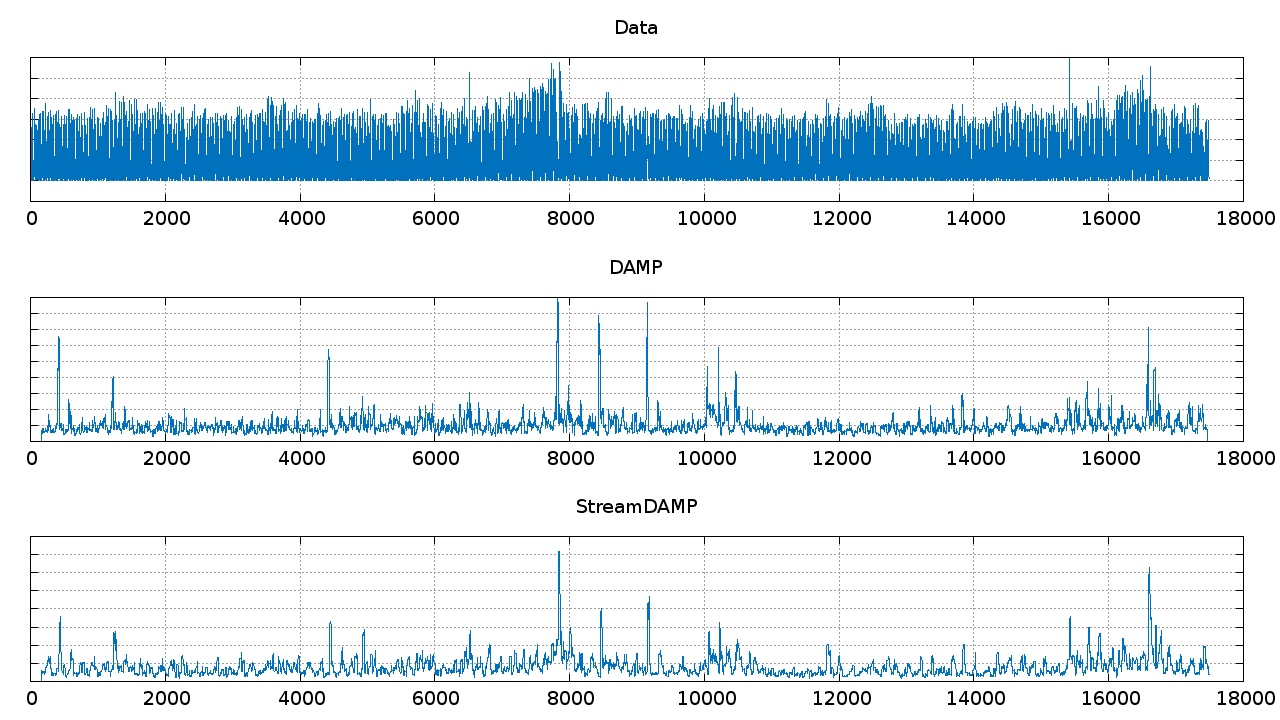
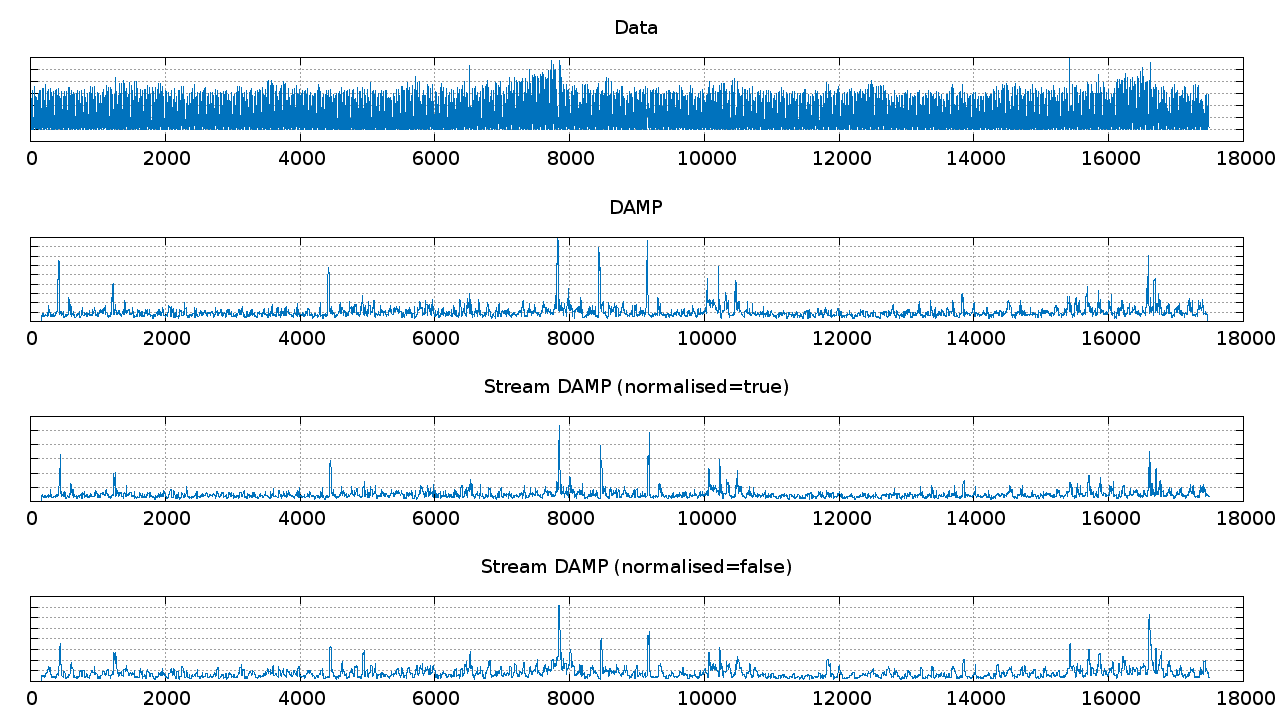
Updates plotted samples

diff --git a/experiments/generate_samples.go b/experiments/generate_samples.go
@@ -36,15 +36,15 @@ type testSample struct {
 }
 
 var plotSamples = []testSample{
-	{"damp/samples/1-bourkestreetmall.in", 17490, 24, 24 * 7},
-	{"damp/samples/2-machining.in", 44056, 16, 44056 / 9},
+	{"damp/samples/1-bourkestreetmall", 17490, 24, 24 * 7},
+	{"damp/samples/2-machining", 44056, 16, 44056 / 9},
 }
 
 func main() {
 	for _, s := range plotSamples {
 		// Open the dataset
 		log.Println("running sample:", s.name)
-		tsData, err := damp.ReadTimeseriesFromFile(s.name, s.maxSize)
+		tsData, err := damp.ReadTimeseriesFromFile(s.name+".in", s.maxSize)
 		if err != nil {
 			panic(err)
 		}
@@ -57,24 +57,41 @@ func main() {
 			panic(err)
 		}
 		log.Println("original took:", stop.Sub(start))
-		if err := writeTS(s.name+".damp", tsDamp); err != nil {
+		if err := writeTS(s.name+".1.damp", tsDamp); err != nil {
 			panic(err)
 		}
 
-		// Run streaming DAMP
-		tsSDamp := damp.NewTimeseries(tsData.Len(), false)
-		sdamp, err := damp.NewStreamDAMP(s.maxSize, s.seqSize, s.trainSize, false)
+		// Run streaming DAMP, normalised
+		tsSDamp1 := damp.NewTimeseries(tsData.Len(), false)
+		sdamp1, err := damp.NewStreamDAMP(s.maxSize, s.seqSize, s.trainSize, true)
 		if err != nil {
 			panic(err)
 		}
 		start = time.Now()
 		for i := range tsData.Len() {
-			discord := sdamp.Push(tsData.Get(i))
-			tsSDamp.Push(discord)
+			discord := sdamp1.Push(tsData.Get(i))
+			tsSDamp1.Push(discord)
 		}
 		stop = time.Now()
-		log.Print("streaming took:", stop.Sub(start))
-		if err := writeTS(s.name+".sdamp", tsSDamp); err != nil {
+		log.Print("streaming (normalised=true) took:", stop.Sub(start))
+		if err := writeTS(s.name+".2.damp", tsSDamp1); err != nil {
+			panic(err)
+		}
+
+		// Run streaming DAMP, non-normalised
+		tsSDamp2 := damp.NewTimeseries(tsData.Len(), false)
+		sdamp2, err := damp.NewStreamDAMP(s.maxSize, s.seqSize, s.trainSize, false)
+		if err != nil {
+			panic(err)
+		}
+		start = time.Now()
+		for i := range tsData.Len() {
+			discord := sdamp2.Push(tsData.Get(i))
+			tsSDamp2.Push(discord)
+		}
+		stop = time.Now()
+		log.Print("streaming (normalised=false) took:", stop.Sub(start))
+		if err := writeTS(s.name+".3.damp", tsSDamp2); err != nil {
 			panic(err)
 		}
 	}
